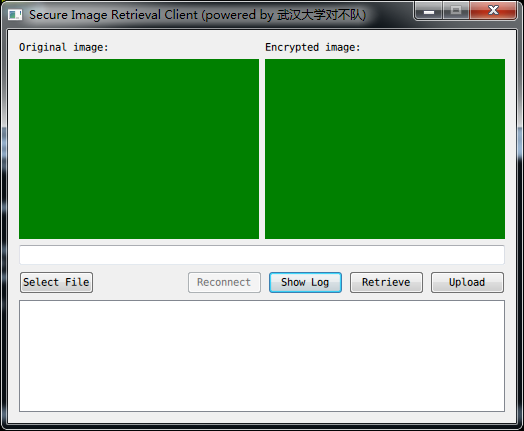
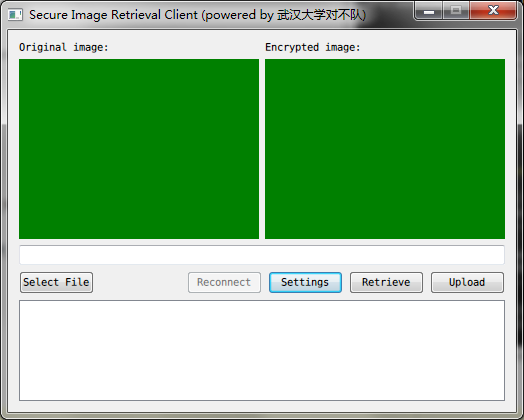
add ui intro

diff --git a/chapter_sys-design.tex b/chapter_sys-design.tex
@@ -158,3 +158,86 @@ $I$就是所求的关于$P$的逆置乱表。
 \label{fig:ui-connected}
 \end{figure}
 
+注意：如果未能与服务器连接成功，则\texttt{Retrieve}与\texttt{Upload}按
+钮不可用，\texttt{Reconnect}可用，如下图，此时应
+点击\texttt{Settings}按钮打开设置面板以检查服务器地址是否正确，确认完毕
+后，点击\texttt{Ok}按钮确认，随后点击\texttt{Reconnect}以试图重新连接服
+务器。若连接成功，则\texttt{Reconnect}变为不可用状
+态，\texttt{Retrieve}与\texttt{Upload}变为可用状态。
+
+\begin{figure}[H]
+  \centering
+  \includegraphics[keepaspectratio=true]{images/ui-disconnected.png}
+  \caption{未连接服务器的客户端}
+  \label{fig:ui-disconnected}
+\end{figure}
+
+配置界面\texttt{Settings}如下图
+
+\begin{figure}[H]
+  \centering
+  \includegraphics[keepaspectratio=true]{images/ui-settings-dialog.png}
+  \caption{配置界面}
+  \label{fig:ui-settings-dialog}
+\end{figure}
+
+服务器地址（形式为一个URL），与三组密钥均在此设置。密钥设置要求
+见\ref{sec:enc-dec-impl}。如果服务器地址被改变，并且客户端已经连接到服
+务器，客户端会与原服务器断开连接并试图连接新服务器。配置界面
+的\texttt{Show Log}按钮可以打开一个日志窗口，记录了客户端的运行情况。
+日志窗口\texttt{Log}如下图
+
+\begin{figure}[H]
+  \centering
+  \includegraphics[keepaspectratio=true]{images/ui-log-dialog.png}
+  \caption{日志窗口}
+  \label{fig:ui-log-dialog}
+\end{figure}
+
+当用户通过\texttt{Select File}按钮选择一张图片后，该图片与密图会同时显
+示出来，如下图
+
+\begin{figure}[H]
+  \centering
+  \includegraphics[keepaspectratio=true]{images/ui-image-selected.png}
+  \caption{选择一张图片后}
+  \label{fig:ui-image-selected}
+\end{figure}
+
+此时用户可以点击\texttt{Upload}来将该文件（密图）上传至服务器，或点击
+\texttt{Retrieve}来检索该图片。注意，如果该图片已存在于服务端，服务器
+将不会接受该图片。
+
+点击\texttt{Retrieve}按钮后，客户端会发送一个检索请求到服务器，并开始
+获取结果。此时客户端会显示状态为\texttt{fetching...}，如下图
+
+\begin{figure}[H]
+  \centering
+  \includegraphics[keepaspectratio=true]{images/ui-retrieve-fetching.png}
+  \caption{客户端获取结果中}
+  \label{fig:ui-retrieve-fetching}
+\end{figure}
+
+当客户端每次获取一个结果，它会将结果解密并保存在工作目录下
+的\texttt{results}目录下，文件名为\texttt{res$i$.jpg}。其中$i$不一定是结
+果在结果集中的大小序号。当全部结果获取完毕后，客户端会将结果集按升序排序，
+并且状态显示为\texttt{done}，如下图
+
+\begin{figure}[H]
+  \centering
+  \includegraphics[keepaspectratio=true]{images/ui-retrieve-done.png}
+  \caption{客户端获取所有结果后}
+  \label{fig:ui-retrieve-done}
+\end{figure}
+
+在检索过程中，日志窗口会记录一些有用的信息，如检索耗时与检索结束耗时
+（从发送检索请求到所有结果获取结束所耗费的时间）等，如下图
+
+
+\begin{figure}[H]
+  \centering
+  \includegraphics[keepaspectratio=true]{images/ui-retrieve-log.png}
+  \caption{检索过程的日志记录}
+  \label{fig:ui-retrieve-log}
+\end{figure}
+
